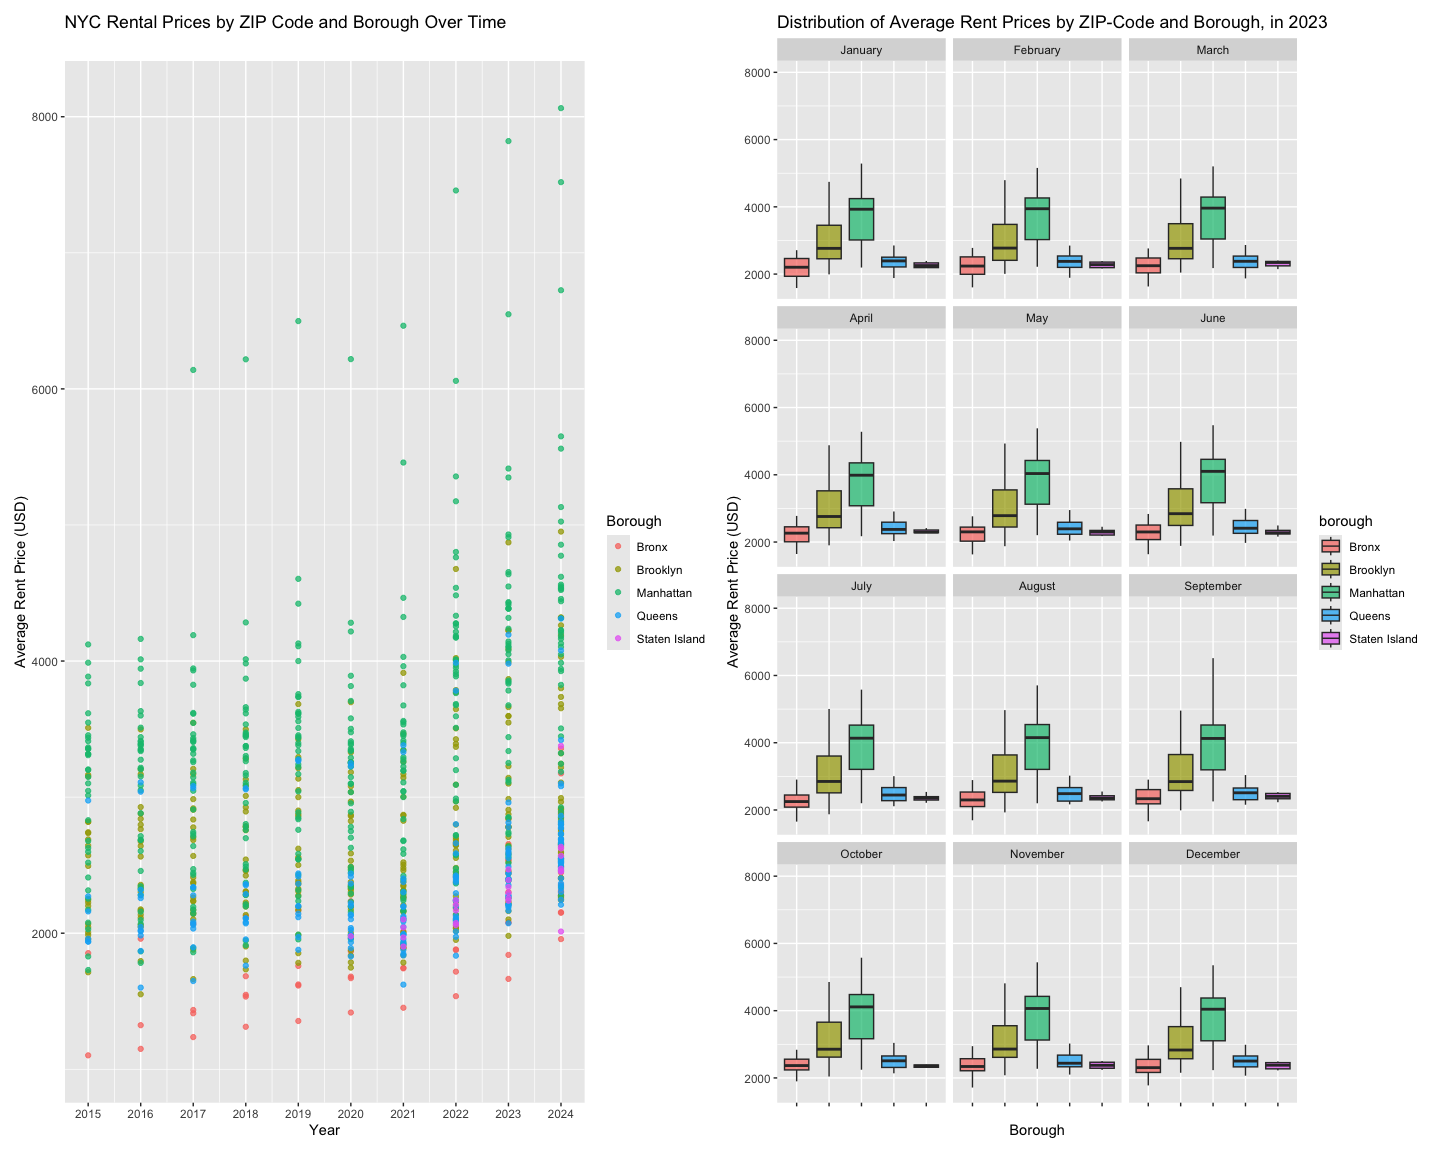
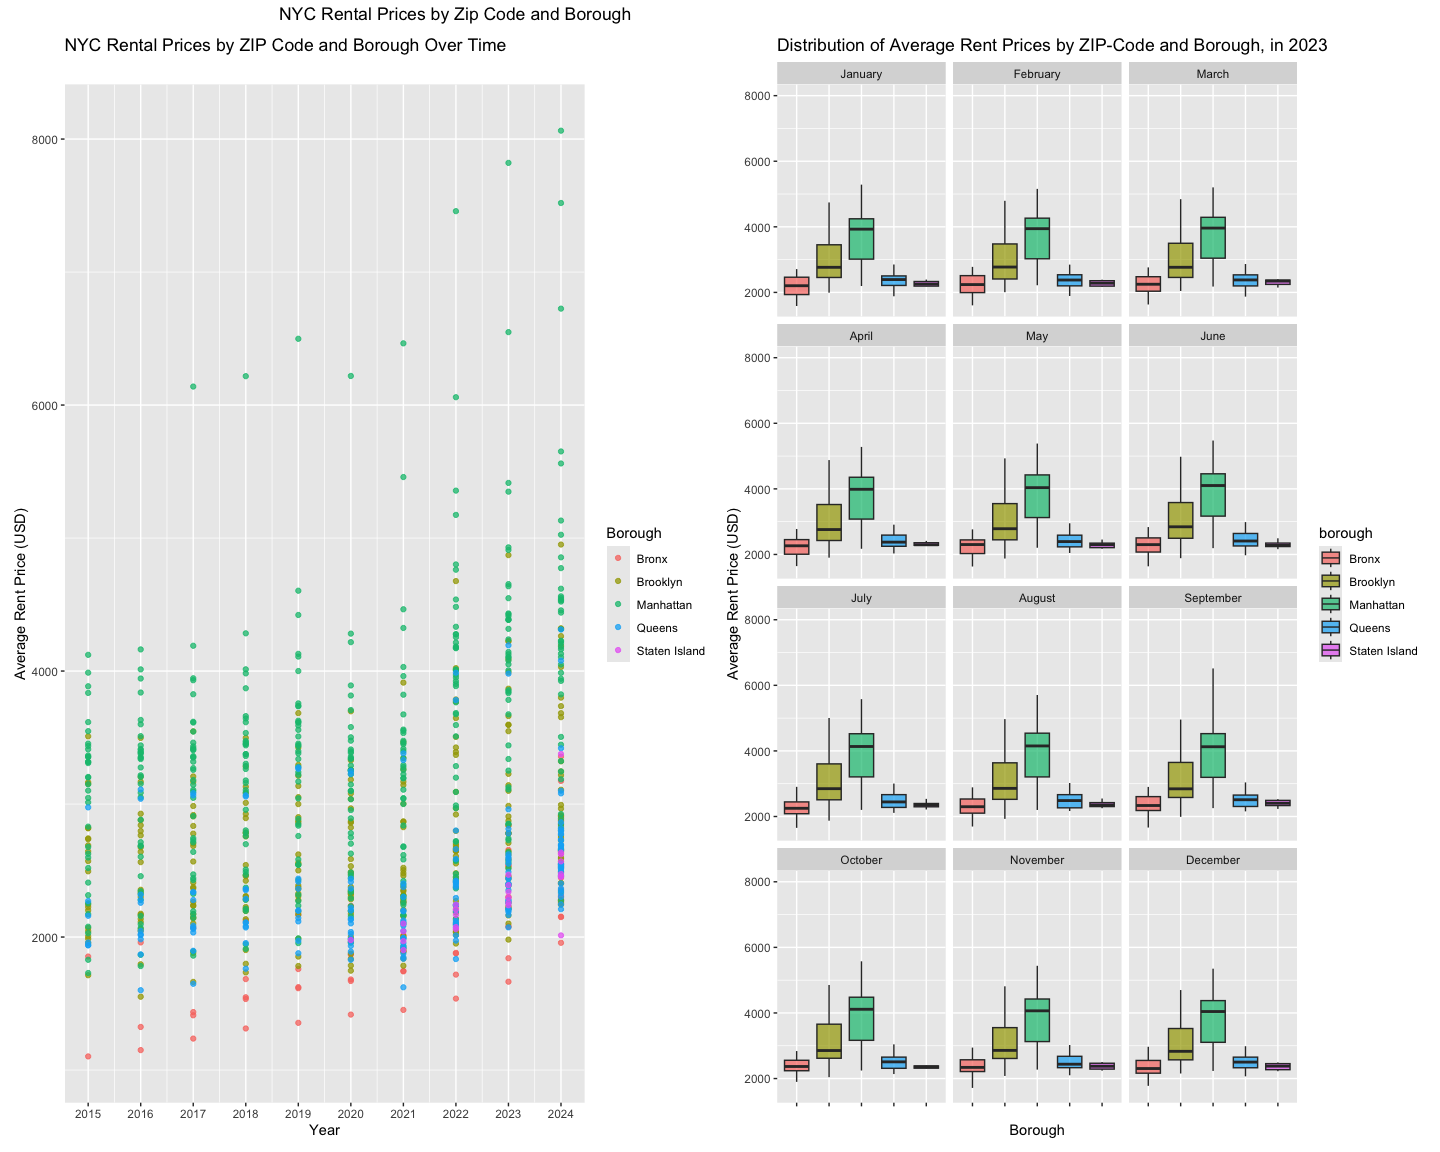
testing figure

diff --git a/p8105_hw3_tp2806.md b/p8105_hw3_tp2806.md
@@ -30,8 +30,8 @@ columns. Key variables include: order_id, which is the order ID for each
 order; product_name, defining the specific item that was ordered; and
 aisle, defining aisle number matching to a specific order
 
-For example, user 73814 placed order 256378 that included “Banana” from
-the “fresh fruits” aisle on day 3 at hour 20.
+For example, user 169091 placed order 857197 that included “Jalapeno
+Peppers” from the “fresh vegetables” aisle on day 3 at hour 16.
 
 ``` r
 #distinct aisle 
@@ -313,6 +313,7 @@ print(rent_2023_plot)
 ```
 
 ![](p8105_hw3_tp2806_files/figure-gfm/unnamed-chunk-11-1.png)<!-- -->
+
 These box plots show the distribution of average rent prices within each
 zip code over each month in 2023, grouped by borough. Consistently
 across each month in 2023, Manhattan had the highest average rent price.
@@ -325,7 +326,12 @@ boroughs in NYC.
 
 ``` r
 #Merge both plots into one graphic
-rent_graphic <- rent_by_zip_plot + rent_2023_plot
+rent_graphic <- rent_by_zip_plot + rent_2023_plot + 
+  plot_layout(ncol = 2) + 
+  plot_annotation(
+    title = "NYC Rental Prices by Zip Code and Borough",
+    theme = theme(plot.title = element_text(hjust = 0.25))
+  )
 print(rent_graphic)
 ```
 
